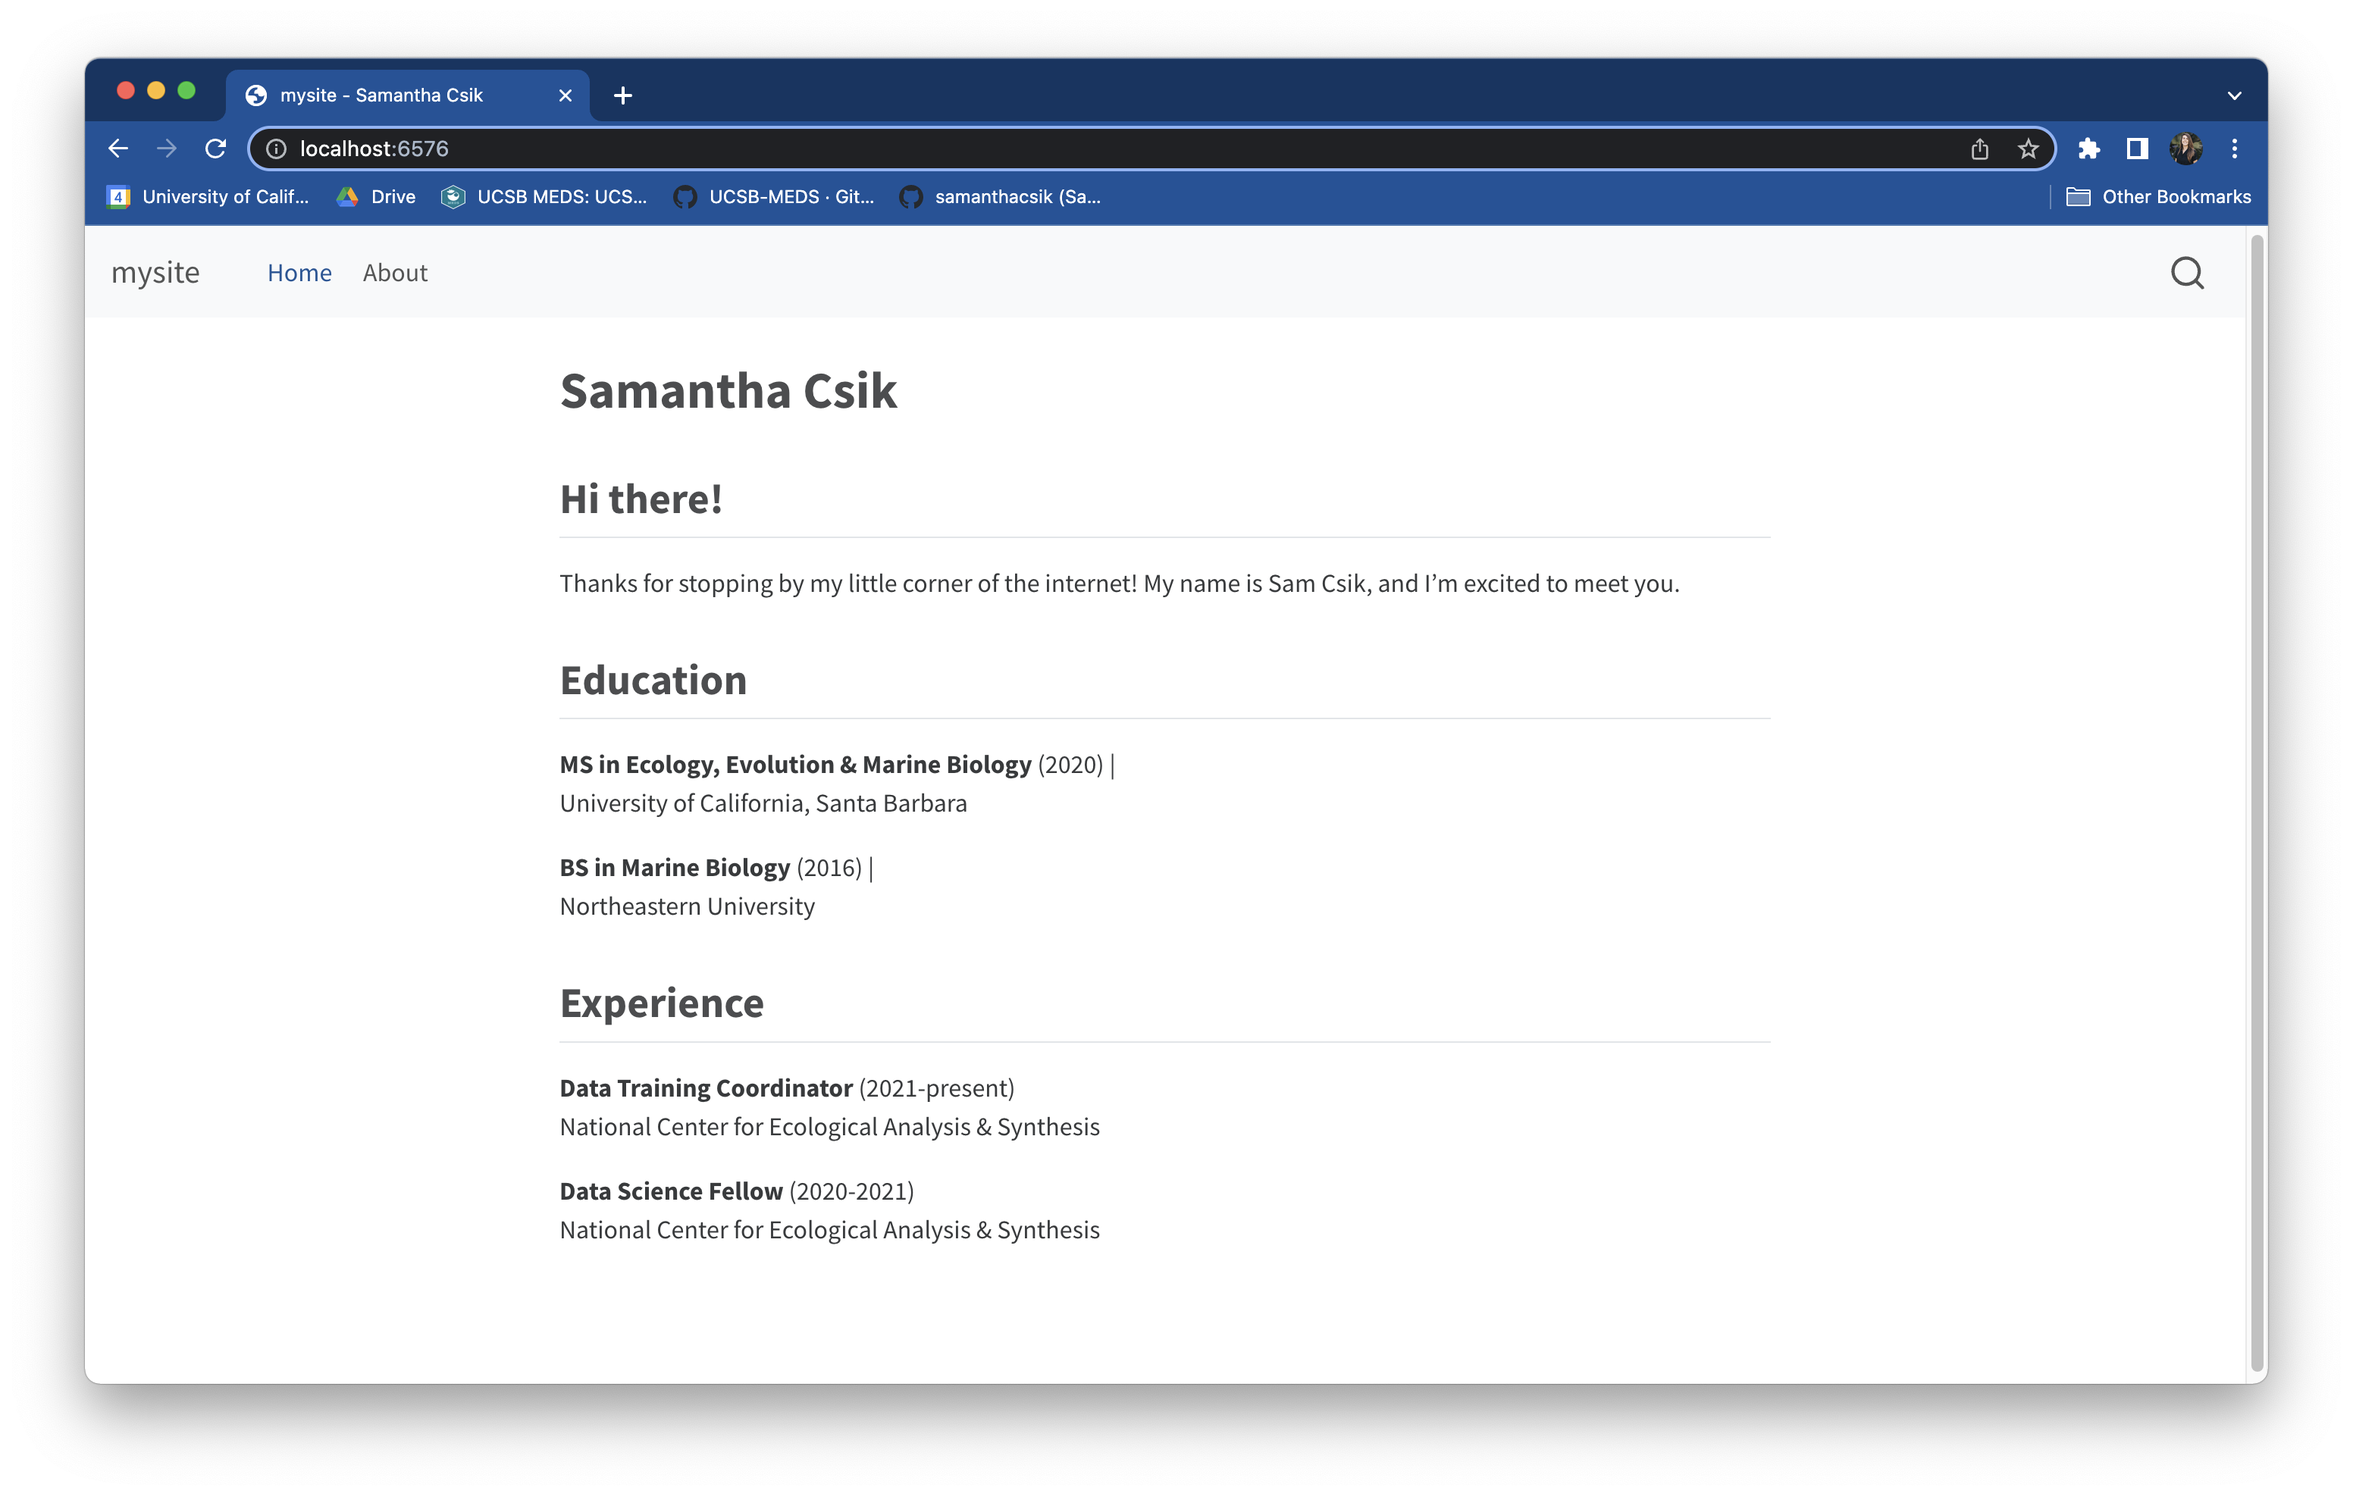
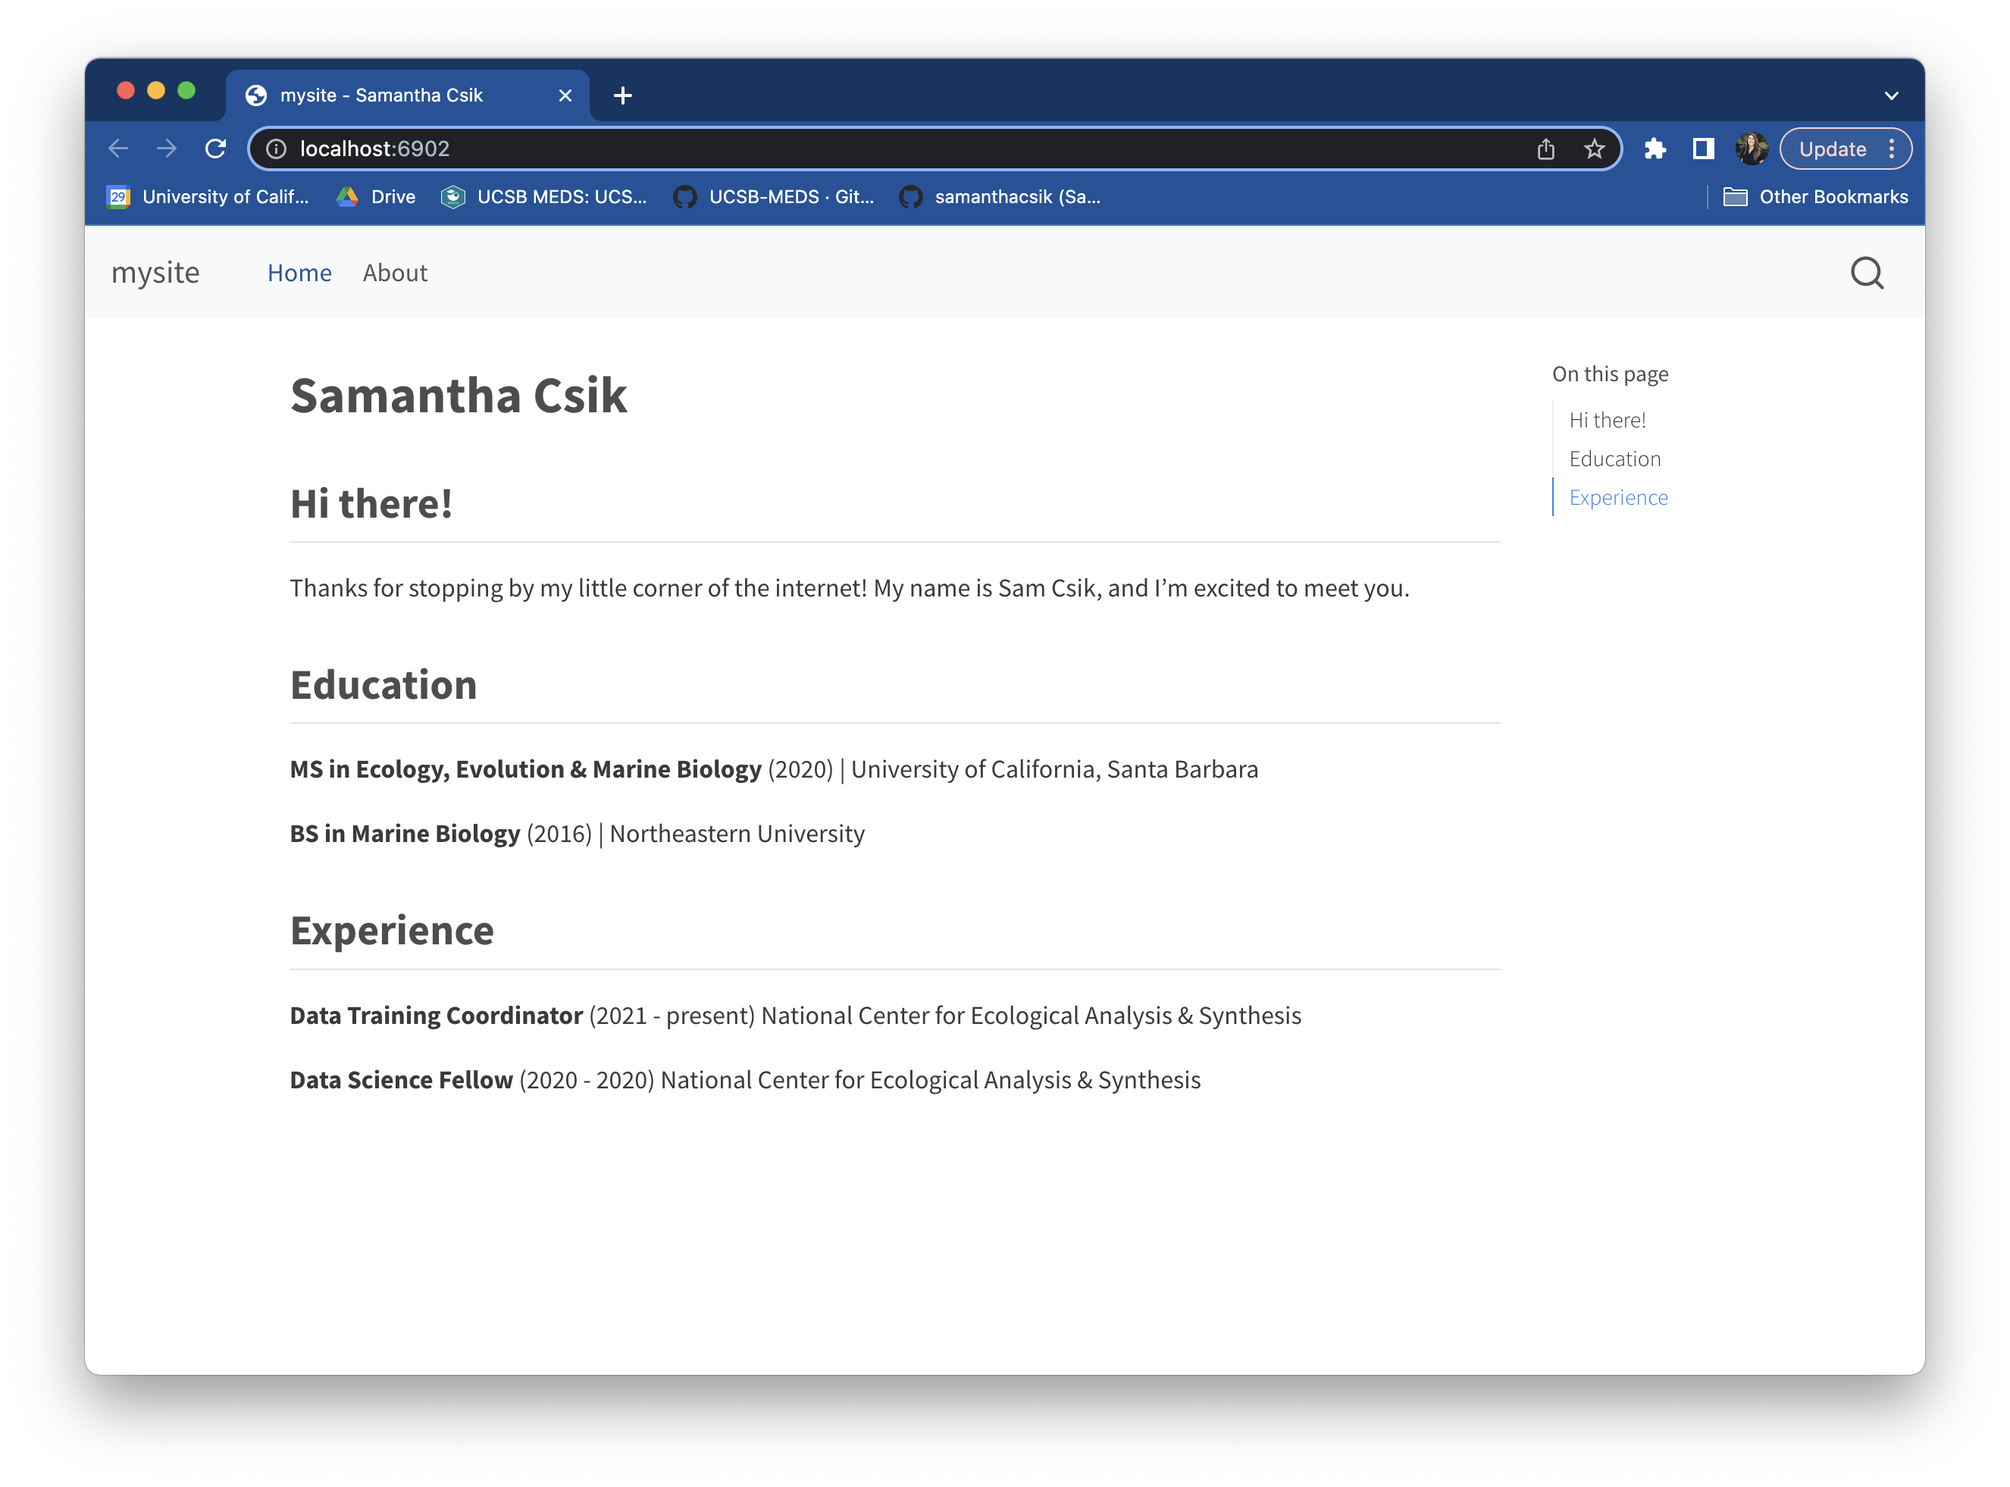
updated image for "add content to landing page" to show default "On this page"; updated turn landing page into about page yaml code to set toc: false

diff --git a/index.html b/index.html
@@ -1077,7 +1077,7 @@ Do <em>not</em> change the name of <code>index.qmd</code>
 <div class="cell-output-display">
 <div class="quarto-figure quarto-figure-center">
 <figure class="figure">
-<p><img src="media/no_about_page.png" class="img-fluid figure-img" width="1552"></p>
+<p><img src="media/no_about_page.png" class="img-fluid figure-img" width="1326"></p>
 <figcaption class="figure-caption">My Quarto website home page, which now includes my name and some content, but isn’t super visually pleasing…</figcaption>
 </figure>
 </div>
@@ -1101,40 +1101,45 @@ Do <em>not</em> change the name of <code>index.qmd</code>
 <div class="sourceCode cell-code" id="annotated-cell-2"><pre class="sourceCode r code-annotation-code code-with-copy code-annotated"><code class="sourceCode r"><span id="annotated-cell-2-1"><a href="#annotated-cell-2-1" aria-hidden="true" tabindex="-1"></a><span class="sc">---</span></span>
 <span id="annotated-cell-2-2"><a href="#annotated-cell-2-2" aria-hidden="true" tabindex="-1"></a>title<span class="sc">:</span> <span class="st">"Samantha Csik"</span></span>
 <a class="code-annotation-anchor" data-target-cell="annotated-cell-2" data-target-annotation="1" onclick="event.preventDefault();" href="">1</a><span id="annotated-cell-2-3" class="code-annotation-target"><a href="#annotated-cell-2-3" aria-hidden="true" tabindex="-1"></a>image<span class="sc">:</span> headshot.jpg</span>
-<span id="annotated-cell-2-4"><a href="#annotated-cell-2-4" aria-hidden="true" tabindex="-1"></a>about<span class="sc">:</span> </span>
-<a class="code-annotation-anchor" data-target-cell="annotated-cell-2" data-target-annotation="2" onclick="event.preventDefault();" href="">2</a><span id="annotated-cell-2-5" class="code-annotation-target"><a href="#annotated-cell-2-5" aria-hidden="true" tabindex="-1"></a>  template<span class="sc">:</span> trestles</span>
-<a class="code-annotation-anchor" data-target-cell="annotated-cell-2" data-target-annotation="3" onclick="event.preventDefault();" href="">3</a><span id="annotated-cell-2-6" class="code-annotation-target"><a href="#annotated-cell-2-6" aria-hidden="true" tabindex="-1"></a>  image<span class="sc">-</span>shape<span class="sc">:</span> round</span>
-<span id="annotated-cell-2-7"><a href="#annotated-cell-2-7" aria-hidden="true" tabindex="-1"></a>  image<span class="sc">-</span>width<span class="sc">:</span> 23em</span>
-<a class="code-annotation-anchor" data-target-cell="annotated-cell-2" data-target-annotation="4" onclick="event.preventDefault();" href="">4</a><span id="annotated-cell-2-8" class="code-annotation-target"><a href="#annotated-cell-2-8" aria-hidden="true" tabindex="-1"></a>  links<span class="sc">:</span></span>
-<span id="annotated-cell-2-9"><a href="#annotated-cell-2-9" aria-hidden="true" tabindex="-1"></a>    <span class="sc">-</span> text<span class="sc">:</span> LinkedIn</span>
-<span id="annotated-cell-2-10"><a href="#annotated-cell-2-10" aria-hidden="true" tabindex="-1"></a>      href<span class="sc">:</span> https<span class="sc">:</span><span class="er">//</span>www.linkedin.com<span class="sc">/</span><span class="cf">in</span><span class="sc">/</span>samanthacsik<span class="sc">/</span></span>
-<span id="annotated-cell-2-11"><a href="#annotated-cell-2-11" aria-hidden="true" tabindex="-1"></a>    <span class="sc">-</span> text<span class="sc">:</span> Twitter</span>
-<span id="annotated-cell-2-12"><a href="#annotated-cell-2-12" aria-hidden="true" tabindex="-1"></a>      href<span class="sc">:</span> https<span class="sc">:</span><span class="er">//</span>twitter.com<span class="sc">/</span>SamanthaCsik</span>
-<span id="annotated-cell-2-13"><a href="#annotated-cell-2-13" aria-hidden="true" tabindex="-1"></a>    <span class="sc">-</span> text<span class="sc">:</span> GitHub</span>
-<span id="annotated-cell-2-14"><a href="#annotated-cell-2-14" aria-hidden="true" tabindex="-1"></a>      href<span class="sc">:</span> https<span class="sc">:</span><span class="er">//</span>github.com<span class="sc">/</span>samanthacsik</span>
-<span id="annotated-cell-2-15"><a href="#annotated-cell-2-15" aria-hidden="true" tabindex="-1"></a>    <span class="sc">-</span> text<span class="sc">:</span> Email</span>
-<span id="annotated-cell-2-16"><a href="#annotated-cell-2-16" aria-hidden="true" tabindex="-1"></a>      href<span class="sc">:</span> mailto<span class="sc">:</span>scsik<span class="sc">@</span>ucsb.edu</span>
-<span id="annotated-cell-2-17"><a href="#annotated-cell-2-17" aria-hidden="true" tabindex="-1"></a><span class="sc">---</span></span>
-<span id="annotated-cell-2-18"><a href="#annotated-cell-2-18" aria-hidden="true" tabindex="-1"></a>        </span>
-<span id="annotated-cell-2-19"><a href="#annotated-cell-2-19" aria-hidden="true" tabindex="-1"></a><span class="co"># page content excluded for brevity ~</span></span><div class="code-annotation-gutter-bg"></div><div class="code-annotation-gutter"></div></code><button title="Copy to Clipboard" class="code-copy-button"><i class="bi"></i></button></pre></div>
+<a class="code-annotation-anchor" data-target-cell="annotated-cell-2" data-target-annotation="2" onclick="event.preventDefault();" href="">2</a><span id="annotated-cell-2-4" class="code-annotation-target"><a href="#annotated-cell-2-4" aria-hidden="true" tabindex="-1"></a>toc<span class="sc">:</span> false</span>
+<span id="annotated-cell-2-5"><a href="#annotated-cell-2-5" aria-hidden="true" tabindex="-1"></a>about<span class="sc">:</span> </span>
+<a class="code-annotation-anchor" data-target-cell="annotated-cell-2" data-target-annotation="3" onclick="event.preventDefault();" href="">3</a><span id="annotated-cell-2-6" class="code-annotation-target"><a href="#annotated-cell-2-6" aria-hidden="true" tabindex="-1"></a>  template<span class="sc">:</span> trestles</span>
+<a class="code-annotation-anchor" data-target-cell="annotated-cell-2" data-target-annotation="4" onclick="event.preventDefault();" href="">4</a><span id="annotated-cell-2-7" class="code-annotation-target"><a href="#annotated-cell-2-7" aria-hidden="true" tabindex="-1"></a>  image<span class="sc">-</span>shape<span class="sc">:</span> round</span>
+<span id="annotated-cell-2-8"><a href="#annotated-cell-2-8" aria-hidden="true" tabindex="-1"></a>  image<span class="sc">-</span>width<span class="sc">:</span> 23em</span>
+<a class="code-annotation-anchor" data-target-cell="annotated-cell-2" data-target-annotation="5" onclick="event.preventDefault();" href="">5</a><span id="annotated-cell-2-9" class="code-annotation-target"><a href="#annotated-cell-2-9" aria-hidden="true" tabindex="-1"></a>  links<span class="sc">:</span></span>
+<span id="annotated-cell-2-10"><a href="#annotated-cell-2-10" aria-hidden="true" tabindex="-1"></a>    <span class="sc">-</span> text<span class="sc">:</span> LinkedIn</span>
+<span id="annotated-cell-2-11"><a href="#annotated-cell-2-11" aria-hidden="true" tabindex="-1"></a>      href<span class="sc">:</span> https<span class="sc">:</span><span class="er">//</span>www.linkedin.com<span class="sc">/</span><span class="cf">in</span><span class="sc">/</span>samanthacsik<span class="sc">/</span></span>
+<span id="annotated-cell-2-12"><a href="#annotated-cell-2-12" aria-hidden="true" tabindex="-1"></a>    <span class="sc">-</span> text<span class="sc">:</span> Twitter</span>
+<span id="annotated-cell-2-13"><a href="#annotated-cell-2-13" aria-hidden="true" tabindex="-1"></a>      href<span class="sc">:</span> https<span class="sc">:</span><span class="er">//</span>twitter.com<span class="sc">/</span>SamanthaCsik</span>
+<span id="annotated-cell-2-14"><a href="#annotated-cell-2-14" aria-hidden="true" tabindex="-1"></a>    <span class="sc">-</span> text<span class="sc">:</span> GitHub</span>
+<span id="annotated-cell-2-15"><a href="#annotated-cell-2-15" aria-hidden="true" tabindex="-1"></a>      href<span class="sc">:</span> https<span class="sc">:</span><span class="er">//</span>github.com<span class="sc">/</span>samanthacsik</span>
+<span id="annotated-cell-2-16"><a href="#annotated-cell-2-16" aria-hidden="true" tabindex="-1"></a>    <span class="sc">-</span> text<span class="sc">:</span> Email</span>
+<span id="annotated-cell-2-17"><a href="#annotated-cell-2-17" aria-hidden="true" tabindex="-1"></a>      href<span class="sc">:</span> mailto<span class="sc">:</span>scsik<span class="sc">@</span>ucsb.edu</span>
+<span id="annotated-cell-2-18"><a href="#annotated-cell-2-18" aria-hidden="true" tabindex="-1"></a><span class="sc">---</span></span>
+<span id="annotated-cell-2-19"><a href="#annotated-cell-2-19" aria-hidden="true" tabindex="-1"></a>        </span>
+<span id="annotated-cell-2-20"><a href="#annotated-cell-2-20" aria-hidden="true" tabindex="-1"></a><span class="co"># page content excluded for brevity ~</span></span><div class="code-annotation-gutter-bg"></div><div class="code-annotation-gutter"></div></code><button title="Copy to Clipboard" class="code-copy-button"><i class="bi"></i></button></pre></div>
 </div>
 <div class="cell-annotation">
 <dl class="code-annotation-container-grid">
 <dt data-target-cell="annotated-cell-2" data-target-annotation="1">1</dt>
 <dd>
-<span data-code-cell="annotated-cell-2" data-code-lines="3" data-code-annotation="1">add a photo by supplying a relative file path &amp; image name (here, <code>headshot.jpg</code> lives in my repo’s root directory)</span>
+<span data-code-lines="3" data-code-annotation="1" data-code-cell="annotated-cell-2">add a photo by supplying a relative file path &amp; image name (here, <code>headshot.jpg</code> lives in my repo’s root directory)</span>
 </dd>
 <dt data-target-cell="annotated-cell-2" data-target-annotation="2">2</dt>
 <dd>
-<span data-code-cell="annotated-cell-2" data-code-lines="5" data-code-annotation="2">use a <a href="https://quarto.org/docs/websites/website-about.html#templates">pre-built template</a> (here, <code>trestles</code>) to update the layout of your landing page (or any page!)</span>
+<span data-code-lines="4" data-code-annotation="2" data-code-cell="annotated-cell-2">remove “On this page” menu by setting <code>toc: false</code></span>
 </dd>
 <dt data-target-cell="annotated-cell-2" data-target-annotation="3">3</dt>
 <dd>
-<span data-code-cell="annotated-cell-2" data-code-lines="6,7" data-code-annotation="3">set image shape (<code>round</code>, <code>rounded</code>, <code>rectangle</code>) &amp; size</span>
+<span data-code-lines="6" data-code-annotation="3" data-code-cell="annotated-cell-2">use a <a href="https://quarto.org/docs/websites/website-about.html#templates">pre-built template</a> (here, <code>trestles</code>) to update the layout of your landing page (or any page!)</span>
 </dd>
 <dt data-target-cell="annotated-cell-2" data-target-annotation="4">4</dt>
 <dd>
-<span data-code-cell="annotated-cell-2" data-code-lines="8,9,10,11,12,13,14,15,16" data-code-annotation="4">add button links to your favorite social media pages (e.g.&nbsp;LinkedIn, Twitter, GitHub, and even your email – <strong>Note:</strong> the <code>mailto::</code> ahead of your email address, <code>mailto::youremail.com</code>)</span>
+<span data-code-lines="7,8" data-code-annotation="4" data-code-cell="annotated-cell-2">set image shape (<code>round</code>, <code>rounded</code>, <code>rectangle</code>) &amp; size</span>
+</dd>
+<dt data-target-cell="annotated-cell-2" data-target-annotation="5">5</dt>
+<dd>
+<span data-code-lines="9,10,11,12,13,14,15,16,17" data-code-annotation="5" data-code-cell="annotated-cell-2">add button links to your favorite social media pages (e.g.&nbsp;LinkedIn, Twitter, GitHub, and even your email – <strong>Note:</strong> the <code>mailto::</code> ahead of your email address, <code>mailto::youremail.com</code>)</span>
 </dd>
 </dl>
 </div>
@@ -1202,11 +1207,11 @@ Quarto supports creating completely custom page layouts – but I recommend stic
 <dl class="code-annotation-container-grid">
 <dt data-target-cell="annotated-cell-3" data-target-annotation="1">1</dt>
 <dd>
-<span data-code-cell="annotated-cell-3" data-code-lines="6" data-code-annotation="1">Give your website a better title (e.g.&nbsp;your name)! This is the text that appears in the top left corner of your website (by default, it appears as your repo name) – when clicked, a user will be brought back to the landing page</span>
+<span data-code-lines="6" data-code-annotation="1" data-code-cell="annotated-cell-3">Give your website a better title (e.g.&nbsp;your name)! This is the text that appears in the top left corner of your website (by default, it appears as your repo name) – when clicked, a user will be brought back to the landing page</span>
 </dd>
 <dt data-target-cell="annotated-cell-3" data-target-annotation="2">2</dt>
 <dd>
-<span data-code-cell="annotated-cell-3" data-code-lines="17" data-code-annotation="2">Set your <code>page-layout</code> to <code>full</code> so that your page content takes up more of the page width</span>
+<span data-code-lines="17" data-code-annotation="2" data-code-cell="annotated-cell-3">Set your <code>page-layout</code> to <code>full</code> so that your page content takes up more of the page width</span>
 </dd>
 </dl>
 <div class="cell" data-layout-align="center">
@@ -1255,7 +1260,7 @@ Quarto supports creating completely custom page layouts – but I recommend stic
 <dl class="code-annotation-container-grid">
 <dt data-target-cell="annotated-cell-4" data-target-annotation="1">1</dt>
 <dd>
-<span data-code-cell="annotated-cell-4" data-code-lines="13" data-code-annotation="1">A newly-added navbar page. <strong>Note:</strong> The page name, as it appears in the navbar of your website, will be the same as whatever is listed in the <code>title</code> field of that file’s yaml. For example, I have set <code>title: "All my favorite resources!"</code> in the yaml of <code>resources.qmd</code> – this is how it will appear in my website’s navbar. If you’d like the page name to appear differently in the navbar, use the <code>href</code> and <code>text</code> options together (e.g.&nbsp;see how <code>index.qmd</code> is rendered as <code>Home</code> in my website’s navbar).</span>
+<span data-code-lines="13" data-code-annotation="1" data-code-cell="annotated-cell-4">A newly-added navbar page. <strong>Note:</strong> The page name, as it appears in the navbar of your website, will be the same as whatever is listed in the <code>title</code> field of that file’s yaml. For example, I have set <code>title: "All my favorite resources!"</code> in the yaml of <code>resources.qmd</code> – this is how it will appear in my website’s navbar. If you’d like the page name to appear differently in the navbar, use the <code>href</code> and <code>text</code> options together (e.g.&nbsp;see how <code>index.qmd</code> is rendered as <code>Home</code> in my website’s navbar).</span>
 </dd>
 </dl>
 <div class="cell" data-layout-align="center">
